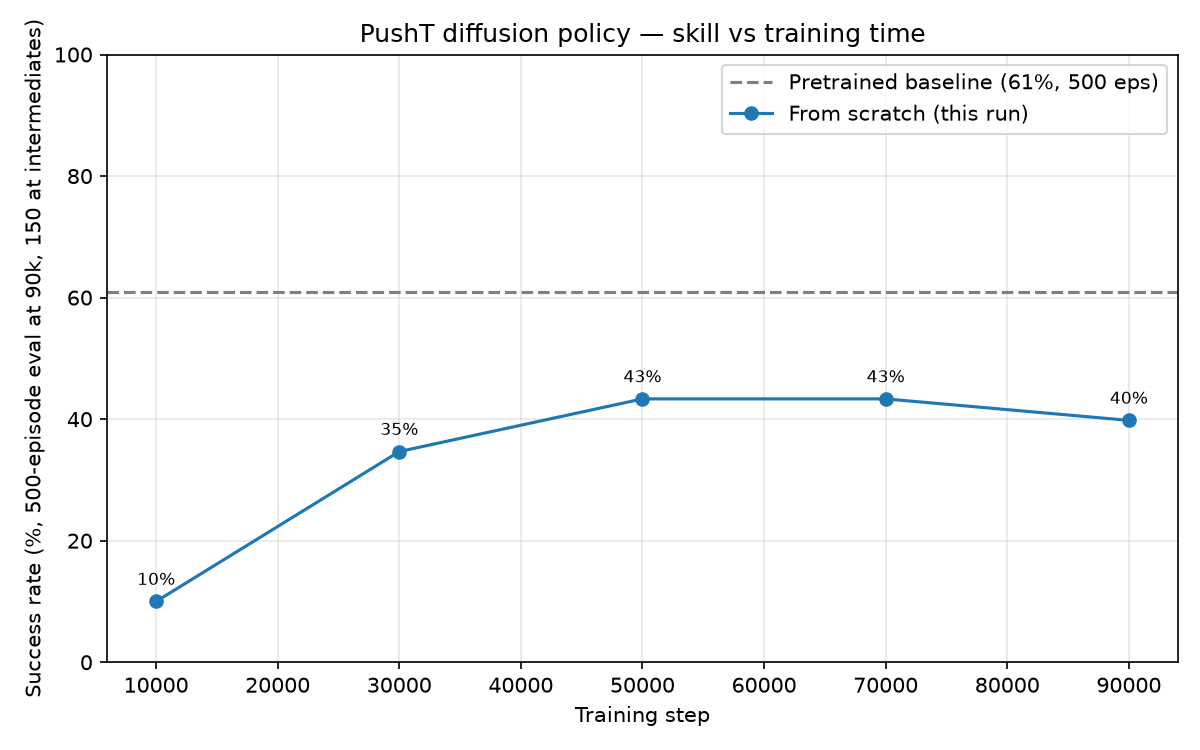
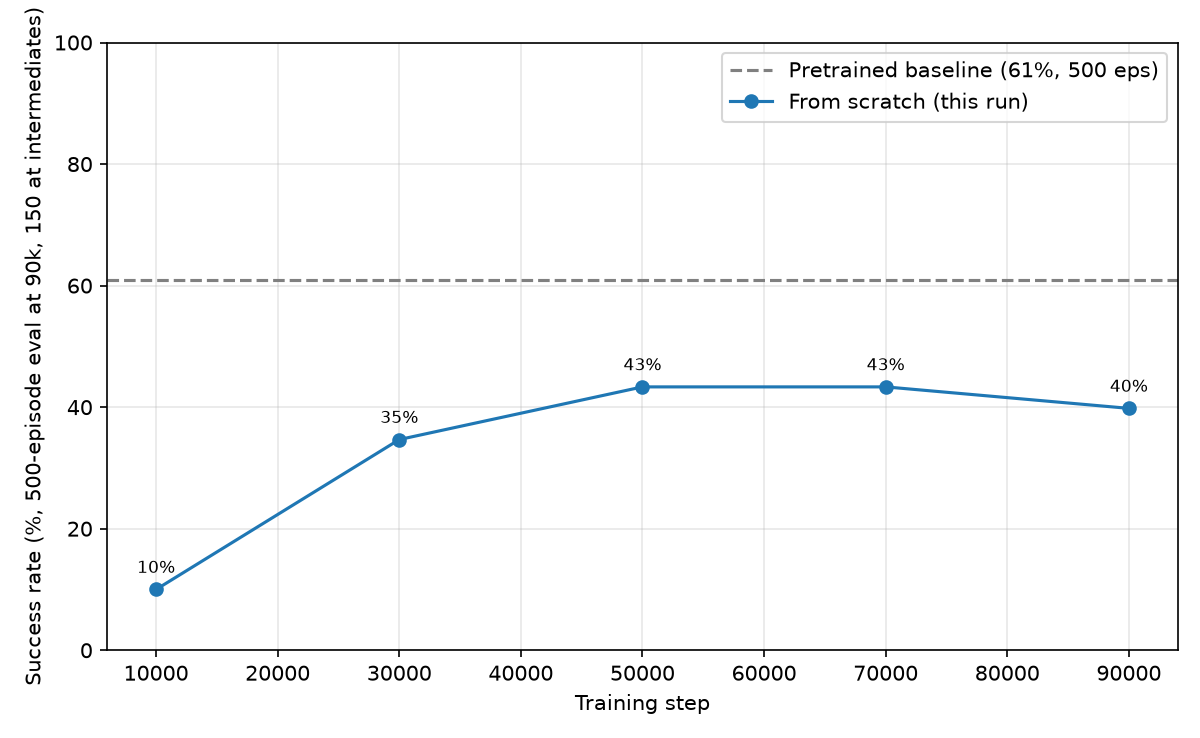
Remove the title from the skill curve chart
The title had an em dash baked into the image. A straight crop would have
clipped the end of the y-axis label, which runs up beside the title, so the
title's rectangle is blanked to the white background and 12 rows of empty
top margin are trimmed. Still lossless: every other pixel matches
day3/skill_curve.png.

diff --git a/src/pages/work/RoboticsChallenge.tsx b/src/pages/work/RoboticsChallenge.tsx
@@ -50,7 +50,7 @@ export default function RoboticsChallenge() {
         className="project-hero-media"
         name="robotics/skill-curve.webp"
         alt="Line chart of PushT success rate against training step for my diffusion policy: 10% at 10,000 steps, 35% at 30,000, 43% at 50,000 and at 70,000, 40% at 90,000. A dashed line marks the pretrained baseline at 61%."
-        ratio="1200 / 750"
+        ratio="1200 / 738"
         caption="Success rate at five checkpoints of the overnight run. The first four points come from 150 episodes each, the last from the full 500."
       />
       <p>
